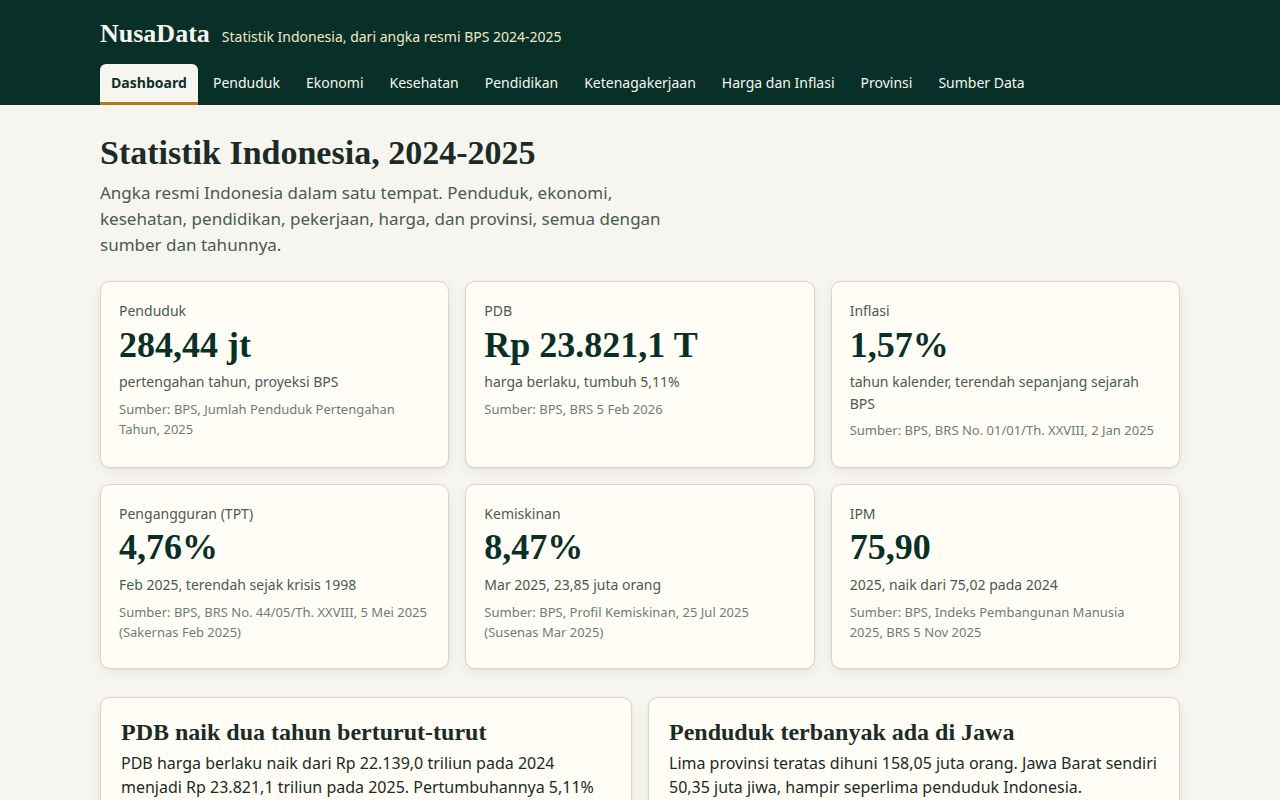
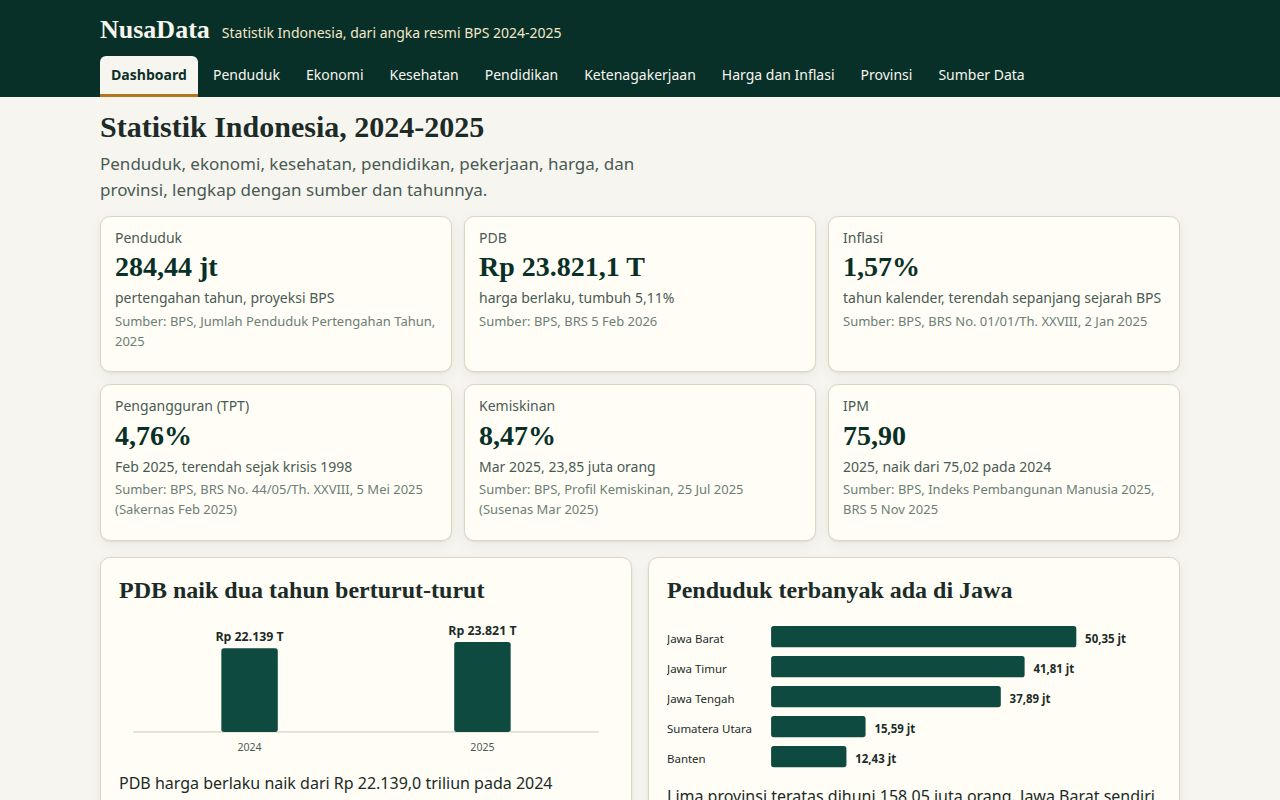
Perbaiki cover dan grafik supaya terlihat utuh di 1280x800

Changed region(s): [[0.0, 0.0312, 1.0, 1.0]]

diff --git a/app/views.js b/app/views.js
@@ -36,10 +36,10 @@ export function renderDashboard() {
   const gdpBars = barChart([
     { label: '2024', value: 22139.0, display: 'Rp 22.139 T' },
     { label: '2025', value: 23821.1, display: 'Rp 23.821 T' }
-  ], { label: 'PDB harga berlaku 2024 dan 2025' });
+  ], { label: 'PDB harga berlaku 2024 dan 2025', height: 180 });
   const popBars = hbarChart(POPULATION.top5.map(function (p) {
     return { label: p.name, value: p.value, display: p.display };
-  }), { label: 'Lima provinsi dengan penduduk terbanyak, 2024' });
+  }), { label: 'Lima provinsi dengan penduduk terbanyak, 2024', rowHeight: 34 });
   const links = NAV.slice(1).map(function (n) {
     const blurb = {
       '#/penduduk': '284,44 juta jiwa pada 2025',
@@ -54,14 +54,16 @@ export function renderDashboard() {
     return '<a class="link-card" href="' + n.route + '"><strong>' + n.label + '</strong><span>' + blurb + '</span></a>';
   }).join('');
   return pageHead('Statistik Indonesia, 2024-2025',
-    'Angka resmi Indonesia dalam satu tempat. Penduduk, ekonomi, kesehatan, pendidikan, pekerjaan, harga, dan provinsi, semua dengan sumber dan tahunnya.')
+    'Penduduk, ekonomi, kesehatan, pendidikan, pekerjaan, harga, dan provinsi, lengkap dengan sumber dan tahunnya.')
     + '<div class="kpi-grid">' + KPI.map(kpiCard).join('') + '</div>'
     + '<div class="two-col"><section class="panel"><h2>PDB naik dua tahun berturut-turut</h2>'
-    + '<p>PDB harga berlaku naik dari Rp 22.139,0 triliun pada 2024 menjadi Rp 23.821,1 triliun pada 2025. Pertumbuhannya 5,11% pada 2025, sedikit di atas 5,03% pada 2024.</p>'
-    + '<div class="chart-wrap">' + gdpBars + '</div>' + src(SOURCES.pdb2025 + '; ' + SOURCES.pdb2024) + '</section>'
+    + '<div class="chart-wrap">' + gdpBars + '</div>'
+    + '<p>PDB harga berlaku naik dari Rp 22.139,0 triliun pada 2024 menjadi Rp 23.821,1 triliun pada 2025. Pertumbuhannya 5,11%, sedikit di atas 5,03% setahun sebelumnya.</p>'
+    + src(SOURCES.pdb2025 + '; ' + SOURCES.pdb2024) + '</section>'
     + '<section class="panel"><h2>Penduduk terbanyak ada di Jawa</h2>'
+    + '<div class="chart-wrap">' + popBars + '</div>'
     + '<p>Lima provinsi teratas dihuni 158,05 juta orang. Jawa Barat sendiri 50,35 juta jiwa, hampir seperlima penduduk Indonesia.</p>'
-    + '<div class="chart-wrap">' + popBars + '</div>' + src(SOURCES.penduduk2024) + '</section></div>'
+    + src(SOURCES.penduduk2024) + '</section></div>'
     + '<section class="panel"><h2>Perdagangan: surplus US$ 31,04 miliar pada 2024</h2>'
     + '<p>Ekspor US$ 264,70 miliar, impor US$ 233,66 miliar. Surplus ini sudah berjalan 55 bulan berturut-turut sejak Mei 2020. Komoditas ekspor terbesar adalah batu bara (US$ 30,49 miliar), disusul minyak kelapa sawit (US$ 22,87 miliar).</p>'
     + '<p>Pada 2025, surplus naik menjadi US$ 41,05 miliar menurut laporan sekunder Antara yang mengutip BPS.</p>'
@@ -100,7 +102,7 @@ export function renderEkonomi(year) {
   const growthBars = barChart([
     { label: '2024', value: 5.03, display: '5,03%' },
     { label: '2025', value: 5.11, display: '5,11%' }
-  ], { label: 'Pertumbuhan PDB 2024 dan 2025', color: '#b4761c' });
+  ], { label: 'Pertumbuhan PDB 2024 dan 2025', color: '#b4761c', height: 210 });
   const pdrbRows = GDP.pdrb2024.map(function (p, i) {
     return '<tr><td>' + (i + 1) + '</td><td>' + p.name + '</td><td class="num">' + p.value + '</td><td class="num">' + p.share + '</td></tr>';
   }).join('');
@@ -115,8 +117,9 @@ export function renderEkonomi(year) {
     + statCard(GDP.javaShare2024, 'PDB berasal dari Pulau Jawa, 2024', SOURCES.pdb2024)
     + '</div>'
     + '<div class="two-col"><section class="panel"><h2>Pertumbuhan dua tahun terakhir</h2>'
+    + '<div class="chart-wrap">' + growthBars + '</div>'
     + '<p>Pertumbuhan 2025 (5,11%) sedikit lebih cepat dari 2024 (5,03%). Triwulan IV 2025 tumbuh 5,39% dibanding triwulan yang sama setahun sebelumnya.</p>'
-    + '<div class="chart-wrap">' + growthBars + '</div>' + src(SOURCES.pdb2025 + '; ' + SOURCES.pdb2024) + '</section>'
+    + src(SOURCES.pdb2025 + '; ' + SOURCES.pdb2024) + '</section>'
     + '<section class="panel"><h2>Tahun lainnya</h2>'
     + '<p>Pada ' + other + ', PDB ' + GDP.byYear[other].total + ' dengan pertumbuhan ' + GDP.byYear[other].growth + ' dan PDB per kapita ' + GDP.byYear[other].perCapita + ' (' + GDP.byYear[other].perCapitaUsd + ').</p>'
     + '<p>PDB harga konstan 2010 pada 2025 sebesar ' + GDP.constant2025 + '.</p>'
@@ -132,7 +135,7 @@ export function renderKesehatan() {
   const ipmLine = lineChart([
     { label: '2024', value: 75.02, display: '75,02' },
     { label: '2025', value: 75.90, display: '75,90' }
-  ], { label: 'Indeks Pembangunan Manusia 2024 dan 2025' });
+  ], { label: 'Indeks Pembangunan Manusia 2024 dan 2025', height: 220 });
   return pageHead('Kesehatan',
     'Umur harapan hidup orang Indonesia 74,15 tahun pada 2024 menurut seri Indeks Pembangunan Manusia BPS. Angka itu naik menjadi 74,47 tahun pada 2025.')
     + '<div class="stat-row">'
@@ -159,7 +162,7 @@ export function renderPendidikan() {
   const litBars = barChart([
     { label: '2024', value: 96.67, display: '96,67%' },
     { label: '2025', value: 97.10, display: '97,10%' }
-  ], { label: 'Angka melek aksara usia 15 tahun ke atas', color: '#0e4a3f' });
+  ], { label: 'Angka melek aksara usia 15 tahun ke atas', color: '#0e4a3f', height: 220 });
   return pageHead('Pendidikan',
     'Angka partisipasi sekolah (APS) menjawab satu pertanyaan sederhana: dari 100 anak di satu kelompok umur, berapa yang bersekolah. Di usia sekolah dasar hampir semua anak bersekolah, tapi di usia 16-18 tahun sekitar 1 dari 4 remaja tidak sekolah.')
     + '<div class="aps-row">' + cards + '</div>'
@@ -178,7 +181,7 @@ export function renderKetenagakerjaan() {
   const tptBars = barChart([
     { label: 'Feb 2024', value: 4.82, display: '4,82%' },
     { label: 'Feb 2025', value: 4.76, display: '4,76%' }
-  ], { label: 'Tingkat pengangguran terbuka Februari 2024 dan 2025', color: '#0e4a3f' });
+  ], { label: 'Tingkat pengangguran terbuka Februari 2024 dan 2025', color: '#0e4a3f', height: 220 });
   return pageHead('Ketenagakerjaan',
     'Tingkat pengangguran terbuka 4,76% pada Februari 2025, terendah sejak krisis 1998 menurut BPS. Ada 7,28 juta orang menganggur dari angkatan kerja 153,05 juta orang.')
     + '<div class="stat-row">'
@@ -208,7 +211,7 @@ export function renderHarga(year) {
   const bars = barChart([
     { label: 'Des 2023', value: 2.61, display: '2,61%' },
     { label: 'Des 2024', value: 1.57, display: '1,57%' }
-  ], { label: 'Inflasi year-on-year Desember 2023 dan 2024', color: '#0e4a3f' });
+  ], { label: 'Inflasi year-on-year Desember 2023 dan 2024', color: '#0e4a3f', height: 220 });
   return pageHead('Harga dan Inflasi',
     'Inflasi 2024 hanya 1,57%, terendah sepanjang sejarah pencatatan BPS. Indeks Harga Konsumen Desember 2024 berada di 106,80 (2022 = 100).')
     + '<div class="tabs" role="group" aria-label="Pilih tahun"><button type="button" data-year="2024" aria-pressed="' + (y === '2024') + '">2024 (BPS)</button>'

diff --git a/app/style.css b/app/style.css
@@ -36,7 +36,7 @@ body {
 a { color: var(--teal); }
 a:focus-visible, button:focus-visible, input:focus-visible, th:focus-visible { outline: 3px solid var(--amber); outline-offset: 2px; }
 h1, h2, h3 { font-family: var(--font-display); color: var(--ink); line-height: 1.2; margin: 0 0 8px 0; }
-h1 { font-size: 34px; }
+h1 { font-size: 30px; }
 h2 { font-size: 24px; }
 h3 { font-size: 19px; }
 p { margin: 0 0 12px 0; }
@@ -45,11 +45,11 @@ p { margin: 0 0 12px 0; }
 .source { font-size: 13px; color: var(--ink-faint); margin-top: 6px; }
 
 .topbar { background: var(--teal-dark); color: var(--paper); }
-.topbar-inner { max-width: var(--measure); margin: 0 auto; padding: 14px 20px 0 20px; }
+.topbar-inner { max-width: var(--measure); margin: 0 auto; padding: 10px 20px 0 20px; }
 .brand { display: flex; align-items: baseline; gap: 12px; flex-wrap: wrap; }
 .brand-name { font-family: var(--font-display); font-size: 26px; font-weight: 700; color: var(--paper); text-decoration: none; }
 .brand-tag { font-size: 14px; color: var(--amber-soft); }
-nav.main-nav { display: flex; gap: 4px; flex-wrap: wrap; padding: 10px 0 0 0; }
+nav.main-nav { display: flex; gap: 4px; flex-wrap: wrap; padding: 6px 0 0 0; }
 nav.main-nav a {
   color: var(--paper);
   text-decoration: none;
@@ -61,16 +61,16 @@ nav.main-nav a {
 nav.main-nav a:hover { background: var(--teal); }
 nav.main-nav a.active { background: var(--paper); color: var(--teal-dark); font-weight: 700; border-bottom-color: var(--amber); }
 
-main { max-width: var(--measure); margin: 0 auto; padding: var(--gap-large) 20px 40px 20px; }
-.page-head { margin-bottom: 22px; }
+main { max-width: var(--measure); margin: 0 auto; padding: 12px 20px 40px 20px; }
+.page-head { margin-bottom: 10px; }
 .page-head h1 { margin-bottom: 6px; }
 
-.kpi-grid { display: grid; grid-template-columns: repeat(3, minmax(0, 1fr)); gap: var(--gap); margin-bottom: var(--gap-large); }
+.kpi-grid { display: grid; grid-template-columns: repeat(3, minmax(0, 1fr)); gap: 12px; margin-bottom: 16px; }
 .kpi {
   background: var(--card);
   border: 1px solid var(--line);
   border-radius: var(--radius);
-  padding: 18px 18px 14px 18px;
+  padding: 10px 14px 8px 14px;
   box-shadow: var(--shadow);
   text-decoration: none;
   color: var(--ink);
@@ -78,14 +78,15 @@ main { max-width: var(--measure); margin: 0 auto; padding: var(--gap-large) 20px
 }
 a.kpi:hover { border-color: var(--teal); }
 .kpi-label { font-size: 14px; color: var(--ink-soft); margin-bottom: 4px; }
-.kpi-value { font-family: var(--font-display); font-size: 36px; font-weight: 700; line-height: 1.1; color: var(--teal-dark); }
-.kpi-note { font-size: 14px; color: var(--ink-soft); margin-top: 6px; }
+.kpi-value { font-family: var(--font-display); font-size: 28px; font-weight: 700; line-height: 1.1; color: var(--teal-dark); }
+.kpi-note { font-size: 14px; color: var(--ink-soft); margin-top: 4px; }
+.kpi .source { margin-top: 2px; }
 
 .panel {
   background: var(--card);
   border: 1px solid var(--line);
   border-radius: var(--radius);
-  padding: 20px;
+  padding: 18px;
   box-shadow: var(--shadow);
   margin-bottom: var(--gap-large);
   min-width: 0;
@@ -94,10 +95,10 @@ a.kpi:hover { border-color: var(--teal); }
 .panel h3 { margin-bottom: 4px; }
 .two-col { display: grid; grid-template-columns: minmax(0, 1fr) minmax(0, 1fr); gap: var(--gap); }
 .two-col > .panel { margin-bottom: 0; }
-.chart-wrap { margin-top: 12px; }
+.chart-wrap { margin-top: 8px; }
 .chart-wrap svg { width: 100%; height: auto; display: block; }
 
-.stat-row { display: grid; grid-template-columns: repeat(4, minmax(0, 1fr)); gap: var(--gap); margin-bottom: var(--gap-large); }
+.stat-row { display: grid; grid-template-columns: repeat(4, minmax(0, 1fr)); gap: var(--gap); margin-bottom: 16px; }
 .stat {
   background: var(--card);
   border: 1px solid var(--line);
@@ -198,8 +199,8 @@ footer.site-footer h2 { font-size: 17px; }
 @media (max-width: 480px) {
   .kpi-grid { grid-template-columns: minmax(0, 1fr); }
   .stat-row { grid-template-columns: minmax(0, 1fr); }
-  nav.main-nav { flex-wrap: nowrap; overflow-x: auto; padding-bottom: 6px; }
-  nav.main-nav a { white-space: nowrap; }
+  nav.main-nav { flex-wrap: wrap; overflow-x: visible; padding-bottom: 4px; }
+  nav.main-nav a { white-space: nowrap; font-size: 13px; padding: 7px 9px; }
   main { padding-top: 20px; }
 }
 @media (prefers-reduced-motion: reduce) {
